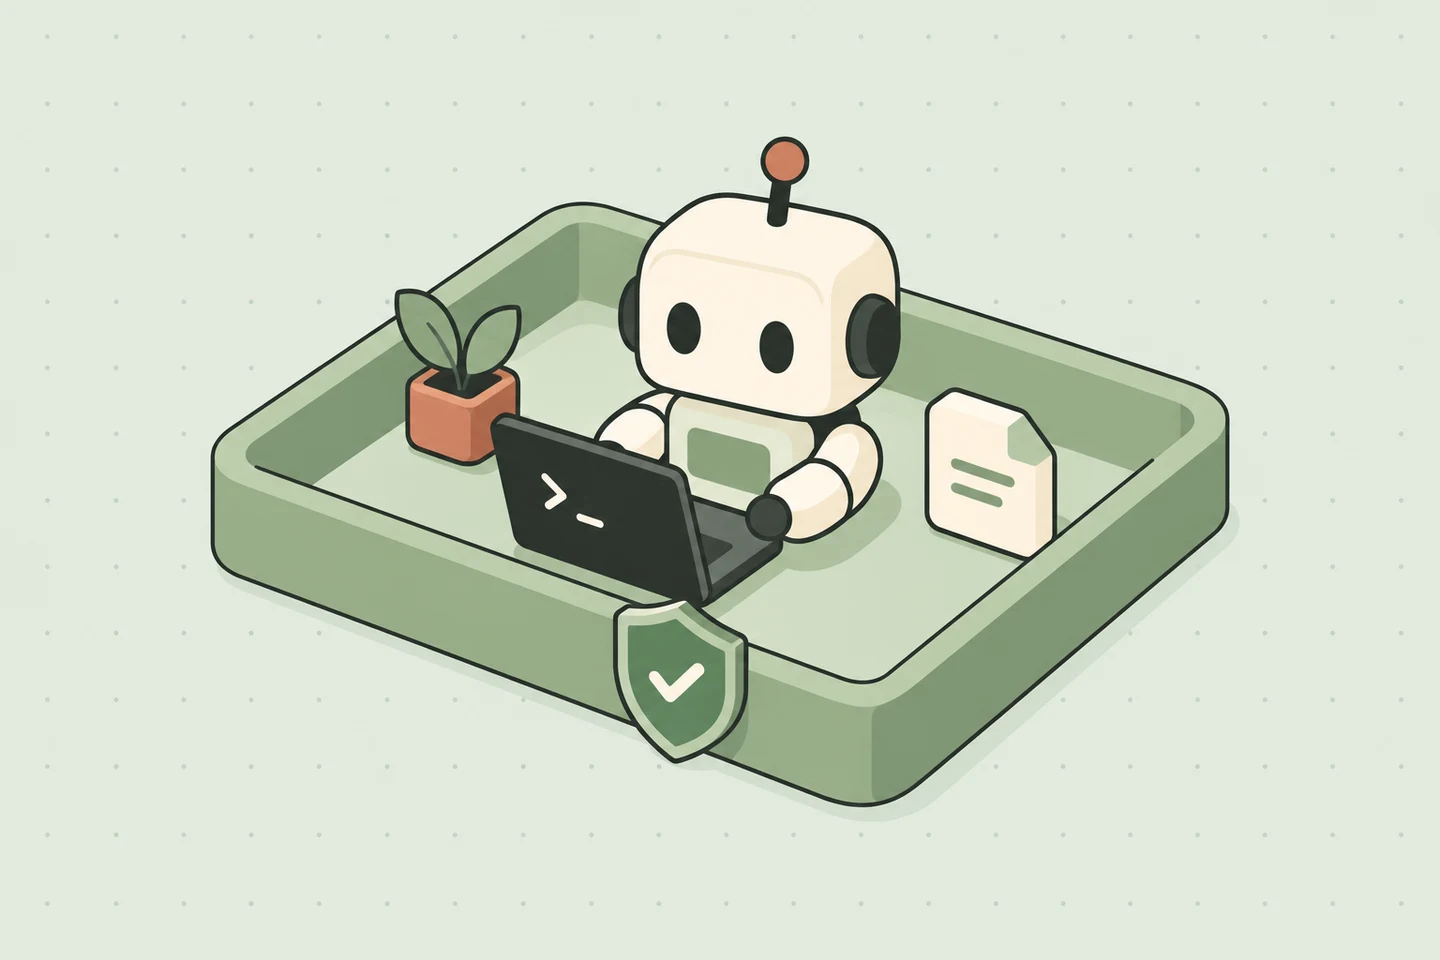
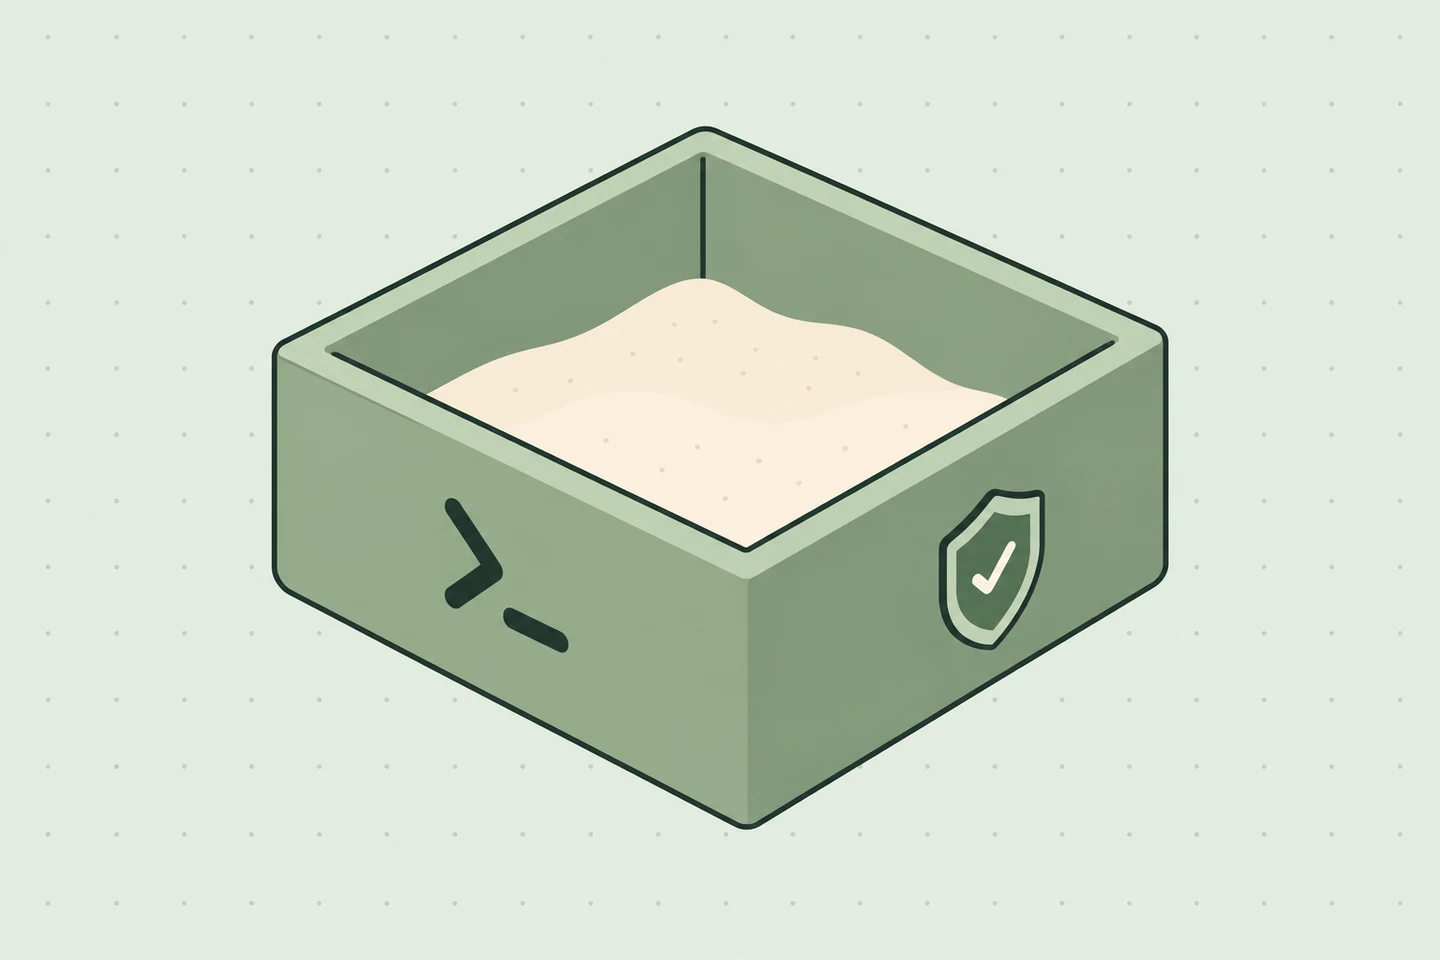
Make the Quickstart illustration an open sandbox box (#192)

Changed region(s): [[0.125, 0.125, 0.875, 0.875]]

diff --git a/images/home/README.md b/images/home/README.md
@@ -4,7 +4,7 @@ Conceptual illustrations for the Agent37 Cloud documentation homepage. The cards
 
 | Asset | Subject |
 | --- | --- |
-| `quickstart.webp` | An agent working with a terminal and files inside a sandbox, with a shield representing isolation. Generated with imagegen and exported at 1440 × 960. |
+| `quickstart.webp` | An open sandbox box filled with sand, with a terminal prompt and shield on its walls representing code execution and isolation. Generated with imagegen and exported at 1440 × 960. |
 | `templates.svg` | Hermes, OpenClaw, and Claude Code with their official brand marks, alongside a slot for your own image. This is an illustrative subset, not the complete catalog. |
 | `api-reference.svg` | `POST /v1/instances` and a fragment of its `201 Created` response. |
 | `agent-docs.svg` | The documentation index passed to a coding agent. |
